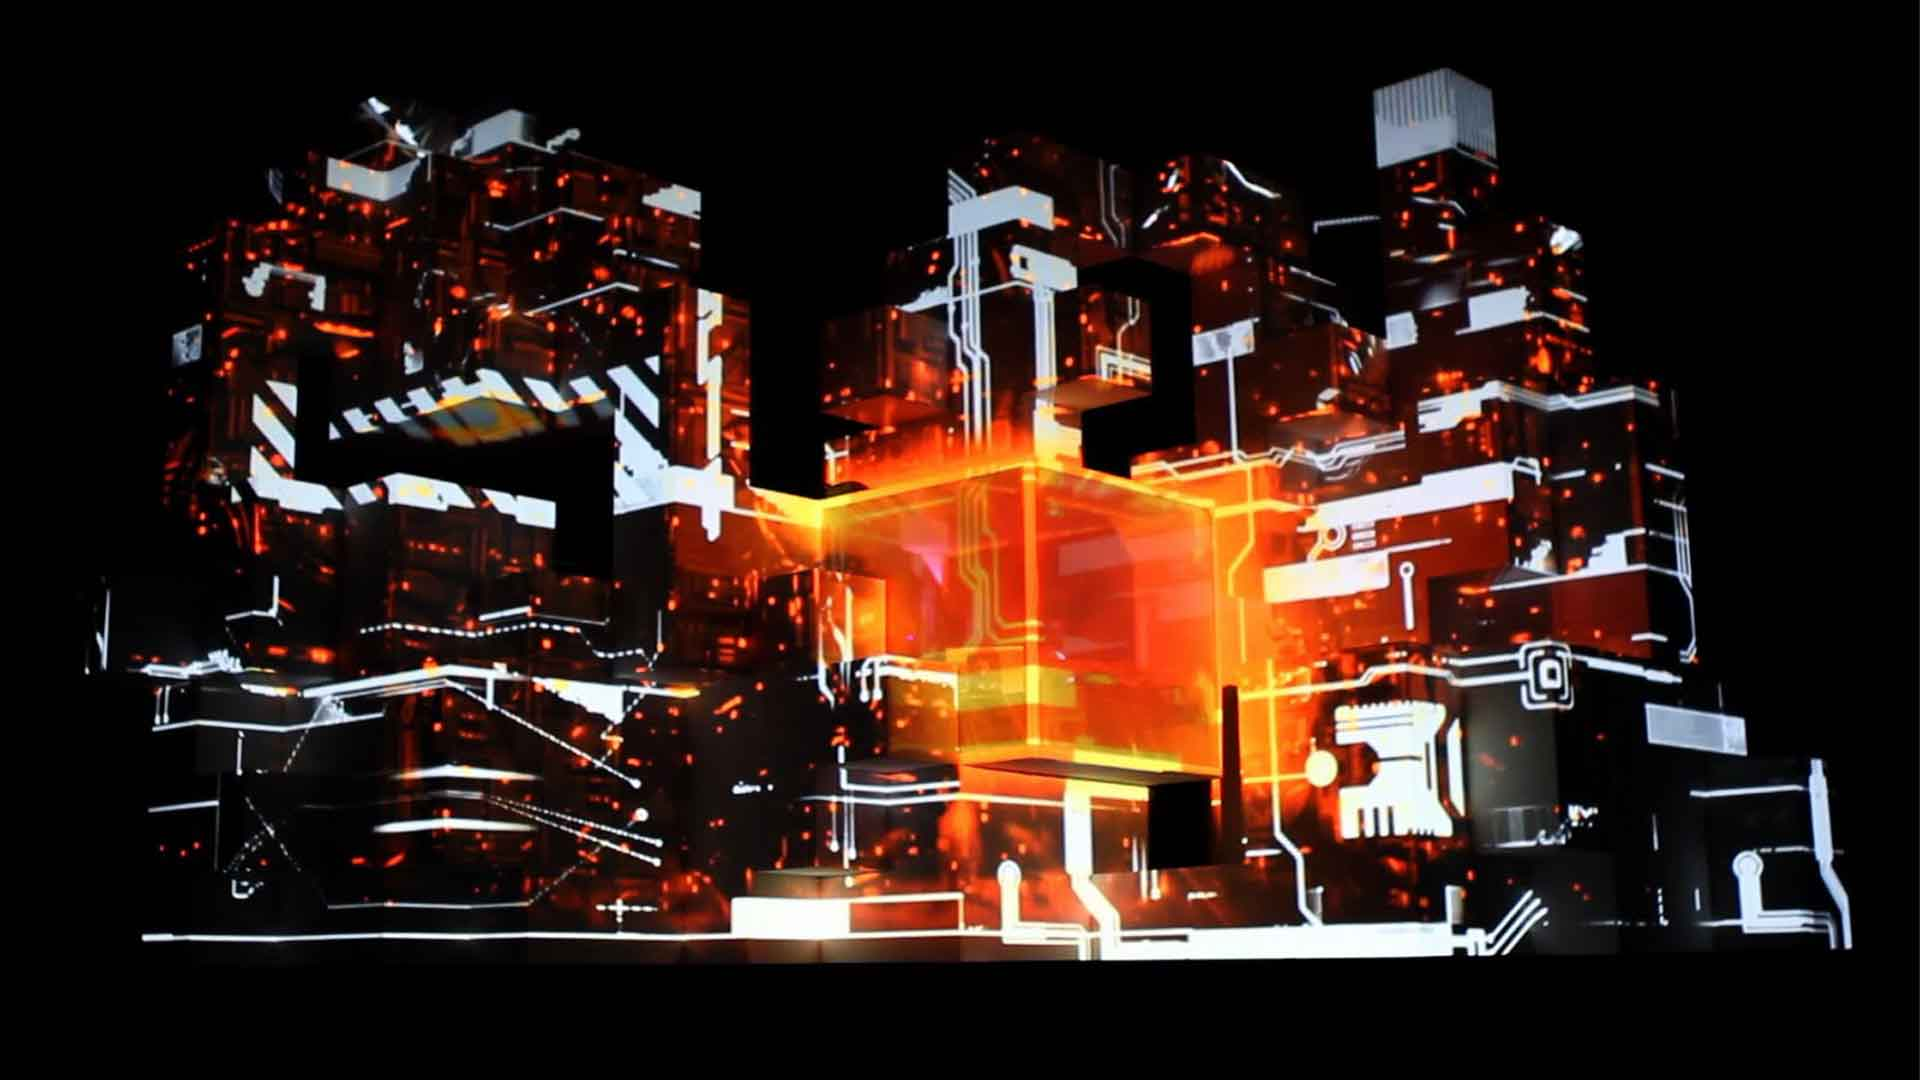
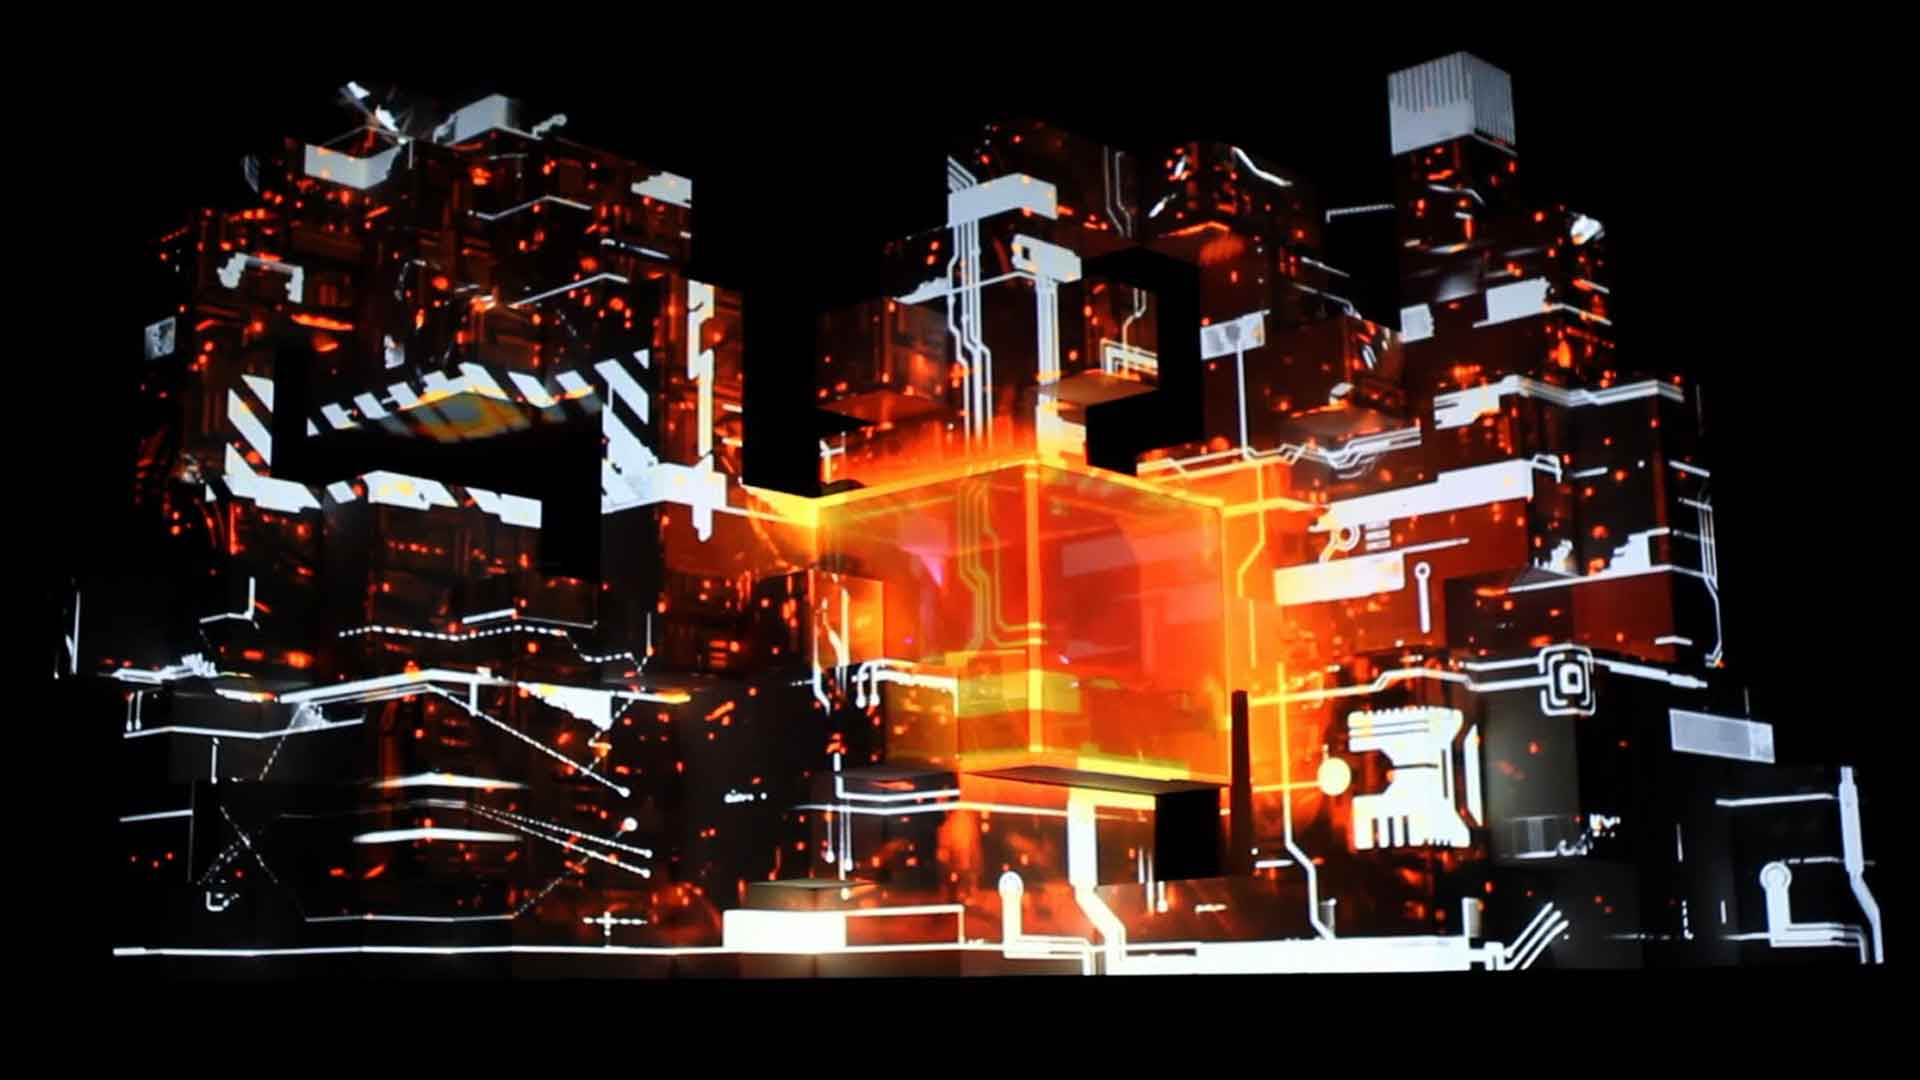
added ISAM project

Changed region(s): [[0.0312, 0.0306, 1.0, 0.9167], [0.1562, 0.0611, 0.1875, 0.0917]]

diff --git a/components/home/projects/Projects.tsx b/components/home/projects/Projects.tsx
@@ -601,6 +601,34 @@ const projects = [
         </p>
       </>
     ),
+  },
+  {
+    title: "Amon Tobin: ISAM Live",
+    imgSrc: ["/project-imgs/isam/isam-00-web.jpg",
+             "/project-imgs/isam/isam-01-web.jpg",
+             "/project-imgs/isam/isam-02-web.jpg",
+             "/project-imgs/isam/isam-03-web.jpg",
+             "/project-imgs/isam/isam-04-web.jpg",
+             "/project-imgs/isam/isam-05-web.jpg",
+             "/project-imgs/isam/isam-06-web.jpg",
+            ],
+    code: "",
+    projectLink: "https://xitelabs.com/portfolio/amon-tobin/",
+    tech: ["Playback System, TouchDesigner, Content Creation"],
+    description:
+      "Amon Tobin ISAM was an immersive audio visual show that made a huge imprint on the world of electronic music and visual arts.",
+    modalContent: (
+      <>
+        <p>
+        Amon Tobin ISAM was an immersive audio visual show that made a huge imprint on the world of electronic music and visual arts. The groundbreaking 3D animation, real time 
+        computer graphics using Touch Designer and 3D projection mapping pushed the 4D medium to new levels. The experience was directed by Vello Virkhaus and the team at Xite 
+        formerly (V Squared Labs) in collaboration with Amon Tobin, Leviathan and set designer Vita Motus. The stage design and visual narrative structure took the audience on a 
+        journey through Tobin’s avant-garde IDM soundscapes. The show started with an mysterious mechanical structure coming to life. This stage then turned into a ship and launched 
+        into space. We then saw Tobin in a hyper-sleep space pod on a futuristic cockpit of the ship. He later wakes up after a series of wild hallucinatory dream like pieces, and 
+        comes out at the end of the show in the same space suit used in the 3D animations. This was a striking reveal.
+        </p>
+      </>
+    ),
   }
 ];
 
